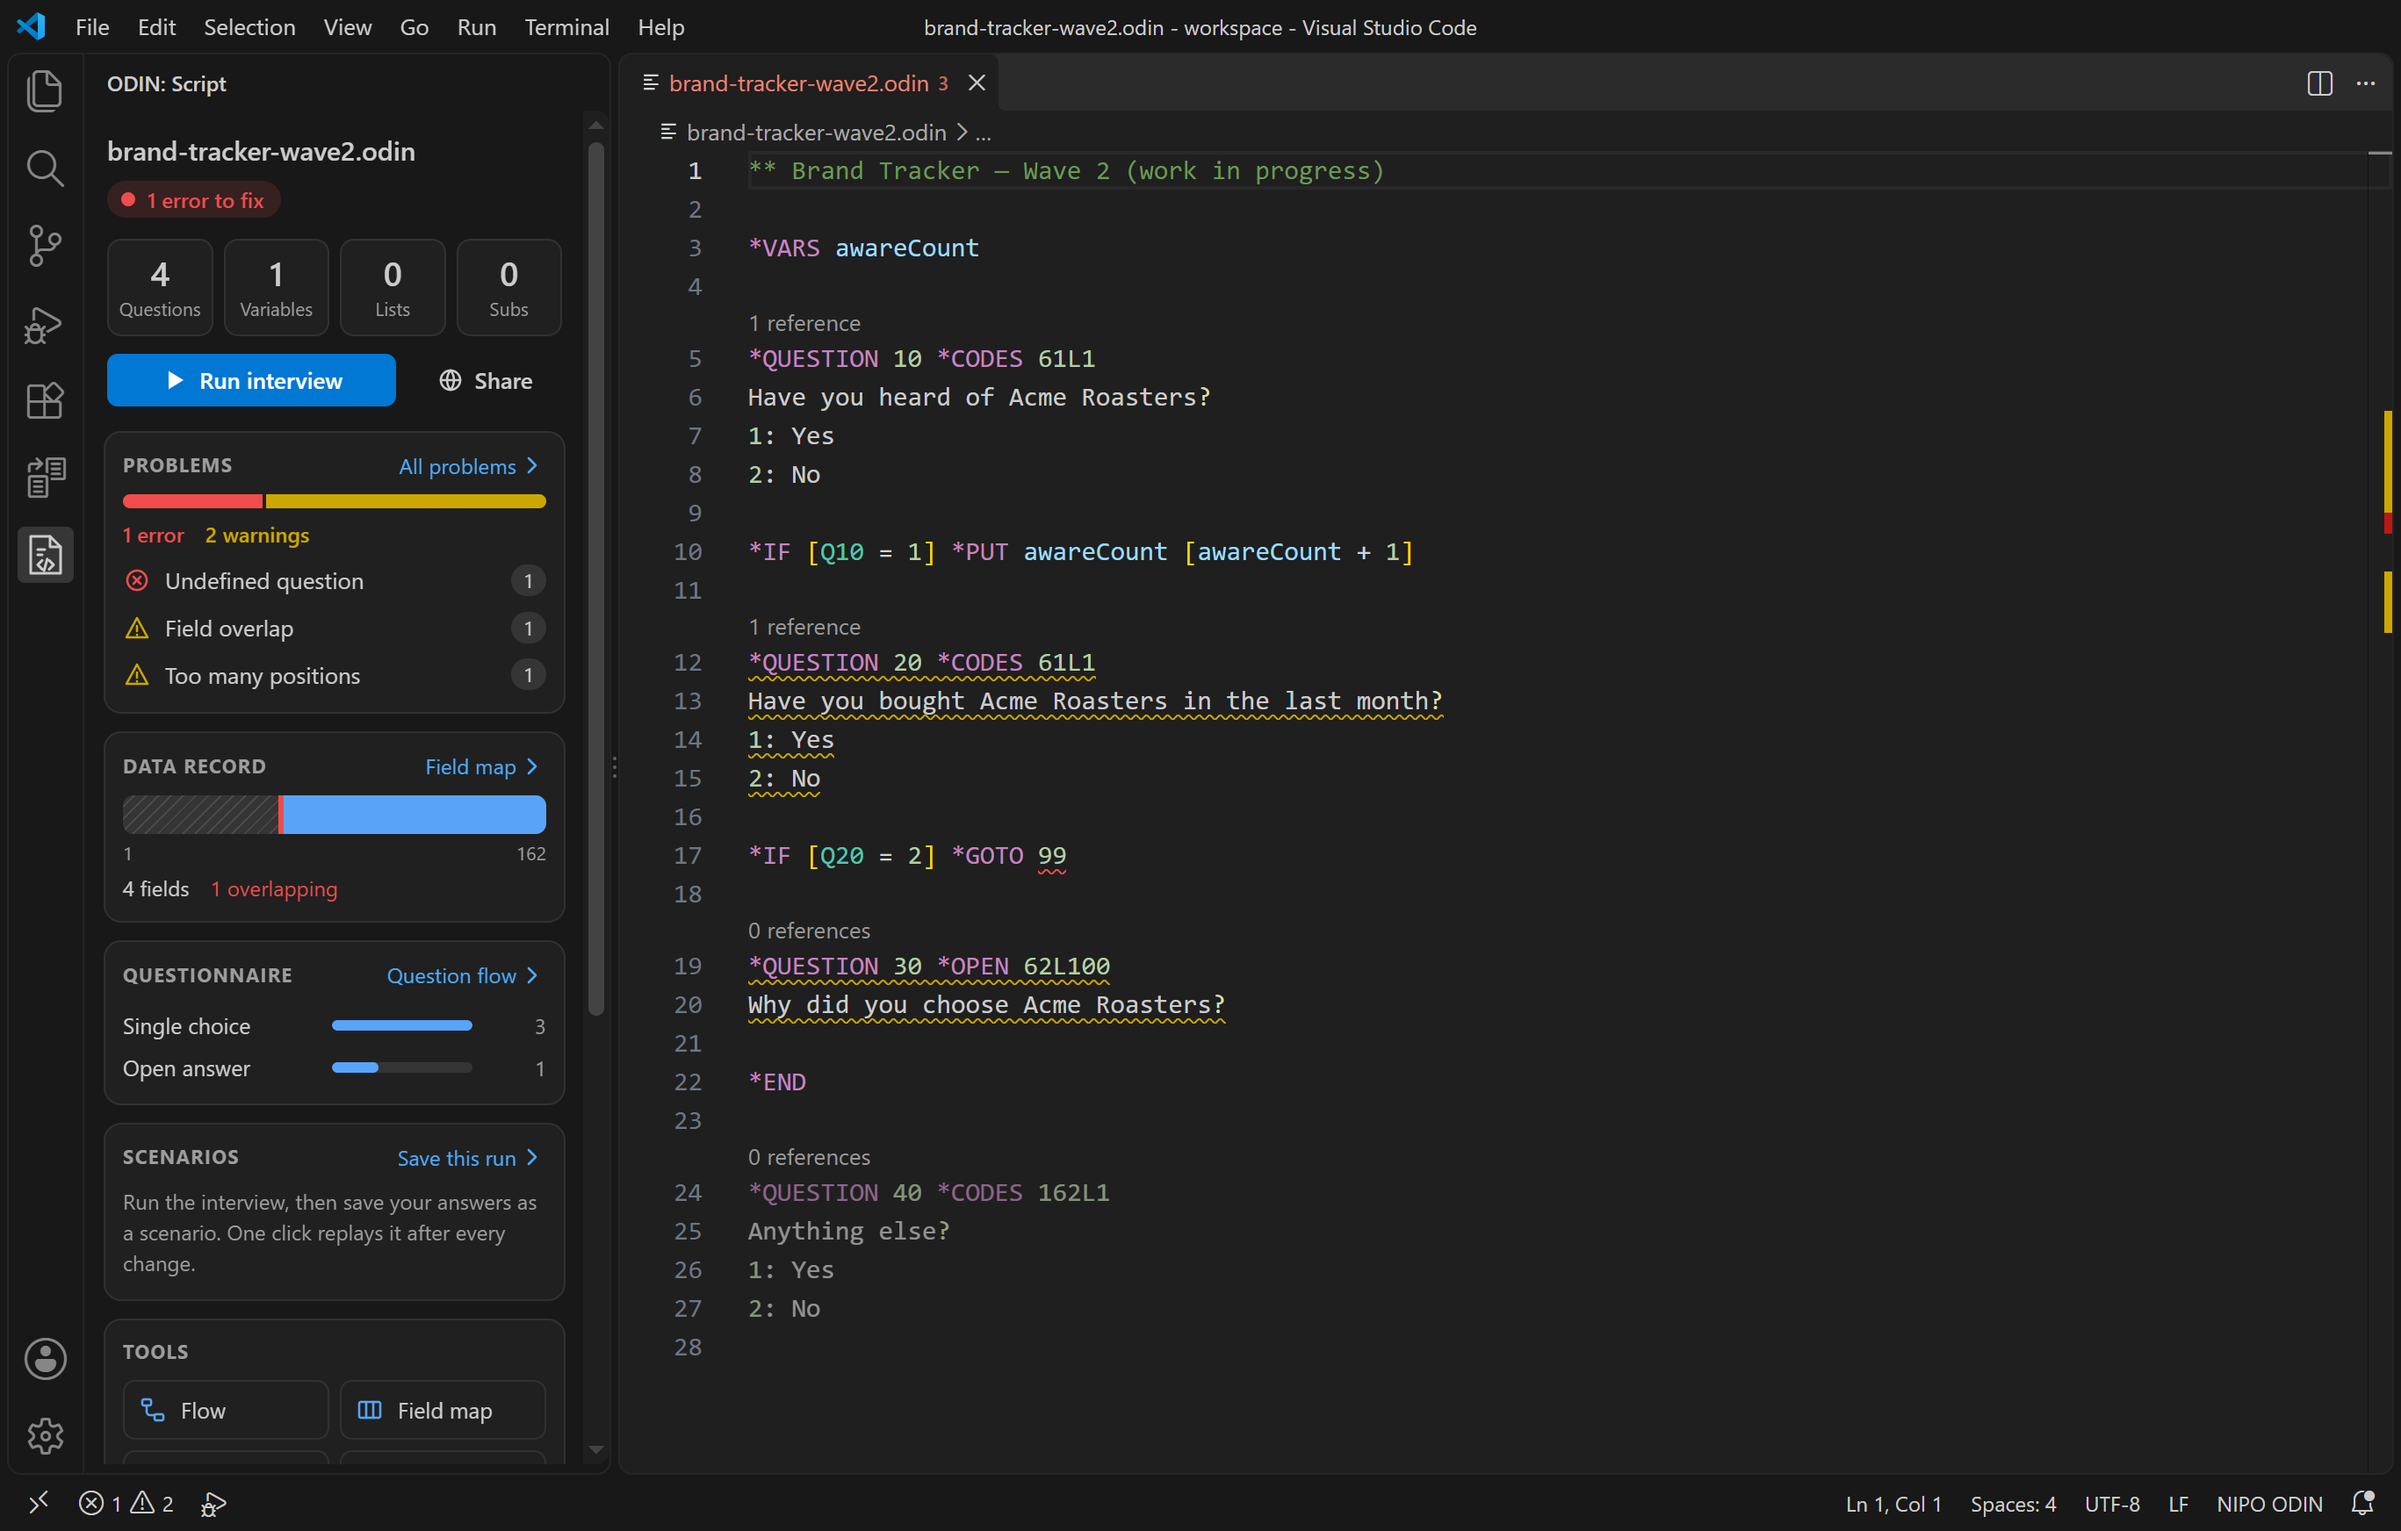
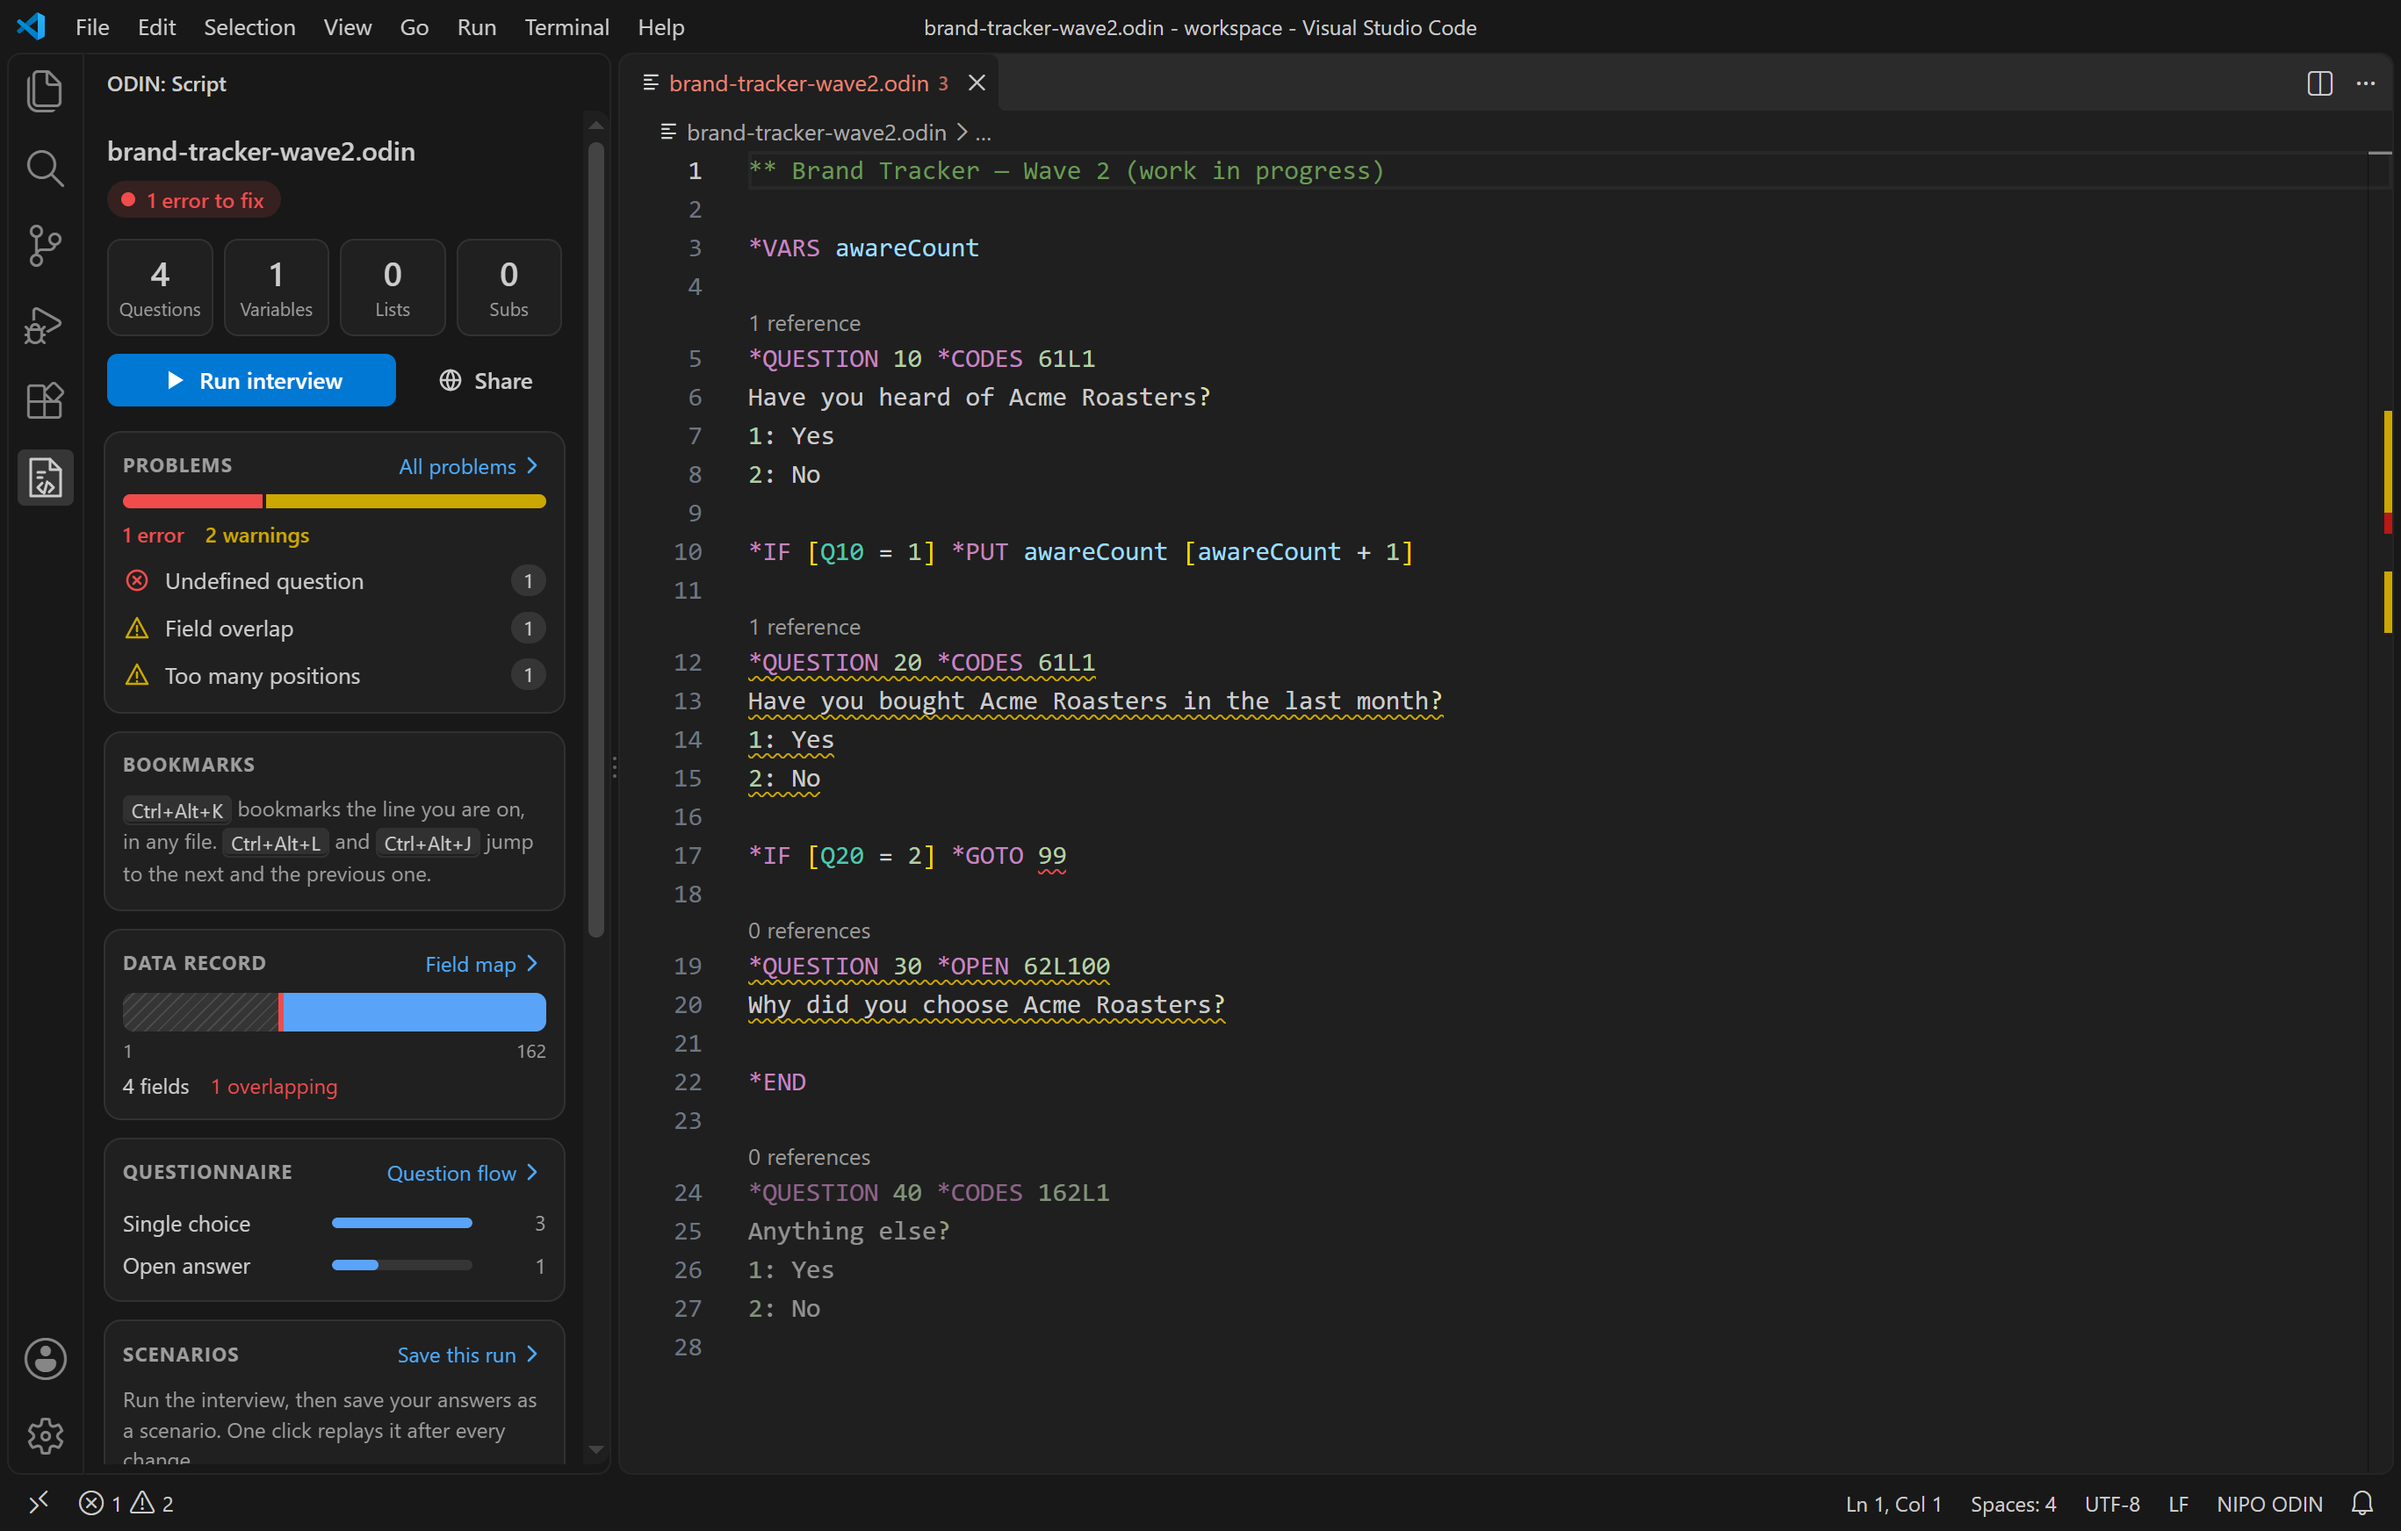
odin plugin 1.51.0

diff --git a/README.md b/README.md
@@ -18,7 +18,7 @@ codex plugin add odin@anteras-odin
 Requires Node.js 18+. Details: [plugins/odin/README.md](plugins/odin/README.md).
 The engine alone is on npm as [`@arodroz/odin`](https://www.npmjs.com/package/@arodroz/odin).
 
-Current engine: **1.50.2**. Free to use; not open source — see [LICENSE.md](LICENSE.md).
+Current engine: **1.51.0**. Free to use; not open source — see [LICENSE.md](LICENSE.md).
 
 ## Feedback
 
